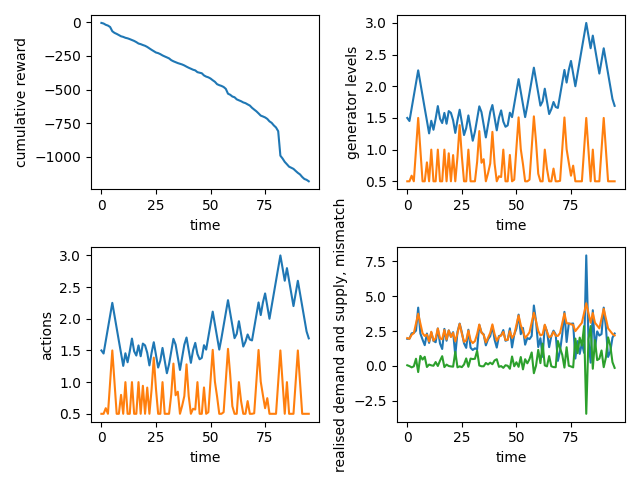
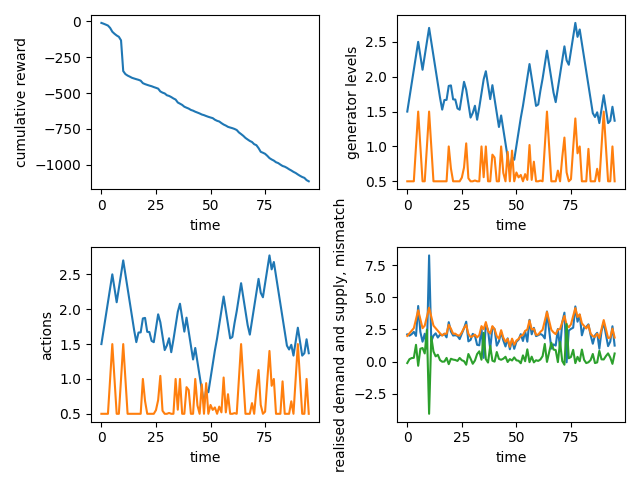
Modified mpc to stop at end of day (v1.0.4)

diff --git a/zeepkist_mpc_submission/zeepkist_mpc.py b/zeepkist_mpc_submission/zeepkist_mpc.py
@@ -6,6 +6,7 @@ def train(env, **kwargs):
     # do nothing; included for compatibility with RL agent
     return MPC_agent(env)
 
+
 class MPC_agent:
 
     def __init__(self, env):
@@ -25,13 +26,6 @@ class MPC_agent:
         self.imb_minus_vars = pulp.LpVariable.dicts(name="imb_minus", indexs=self.indices, lowBound=0)
 
         self.problem = pulp.LpProblem(name="dispatch-problem", sense=pulp.constants.LpMinimize)
-
-        # define objective function
-        # TODO: cut off at end of horizon - it may make a tiny difference
-        self.problem.objective = self.env.param.generator_1_cost * pulp.lpSum([self.gen1_vars[i] for i in self.indices]) \
-            + self.env.param.generator_2_cost * pulp.lpSum([self.gen2_vars[i] for i in self.indices]) \
-            + self.env.param.imbalance_cost_factor_high * pulp.lpSum([self.imb_minus_vars[i] for i in self.indices]) \
-            + self.env.param.imbalance_cost_factor_low * pulp.lpSum([self.imb_plus_vars[i] for i in self.indices])
 
         # add ramp constraints
         for i in range(len(self.indices) - 1):
@@ -56,7 +50,21 @@ class MPC_agent:
 
         return
 
-    def _add_current_constraints(self, current_gen, forecast):
+    def _add_current_constraints(self, current_gen, forecast, steps_in_objective=None):
+
+        # if steps_in_objective is given, use only a subset of terms in the objective function
+        if steps_in_objective is None:
+            objective_indices = self.indices
+        else:
+            assert steps_in_objective <= len(forecast), f"steps_in_objective={steps_in_objective} should be <= {len(forecast)}"
+            objective_indices = [self.indices[i] for i in range(steps_in_objective)]
+
+        # define objective function
+        self.problem.objective = self.env.param.generator_1_cost * pulp.lpSum([self.gen1_vars[i] for i in objective_indices]) \
+            + self.env.param.generator_2_cost * pulp.lpSum([self.gen2_vars[i] for i in objective_indices]) \
+            + self.env.param.imbalance_cost_factor_high * pulp.lpSum([self.imb_minus_vars[i] for i in objective_indices]) \
+            + self.env.param.imbalance_cost_factor_low * pulp.lpSum([self.imb_plus_vars[i] for i in objective_indices])
+
         # in this function we use named constraints, which are a bit more fiddly, but they are replaced when the function is called again
 
         # add ramp rates for current time step
@@ -73,14 +81,15 @@ class MPC_agent:
 
     def predict(self, obs, deterministic=True, **kwargs):
         
+        # get the current time (minus one) and map it to an integer
+        current_time = int(round(obs[0]))   
+        actual_forecast_length = min(self.env.forecast_length, self.env.param.steps_per_episode - current_time - 1)
+
         # set constraints on the basis of current output and forecast
-        self._add_current_constraints(current_gen=(obs[1], obs[2]), forecast=obs[3:])
+        self._add_current_constraints(current_gen=(obs[1], obs[2]), forecast=obs[3:], steps_in_objective=actual_forecast_length)
 
         # solve the MILP and suppress output
         self.problem.solve(pulp.PULP_CBC_CMD(msg=False))
-
-        # debug only: log optimality status
-     #   print(pulp.LpStatus[self.problem.status])
 
         # extract t=0 actions for generators
         a1 = self.gen1_vars[self.indices[0]].varValue

diff --git a/development/zeepkist_mpc.py b/development/zeepkist_mpc.py
@@ -27,13 +27,6 @@ class MPC_agent:
 
         self.problem = pulp.LpProblem(name="dispatch-problem", sense=pulp.constants.LpMinimize)
 
-        # define objective function
-        # TODO: cut off at end of horizon - it may make a tiny difference
-        self.problem.objective = self.env.param.generator_1_cost * pulp.lpSum([self.gen1_vars[i] for i in self.indices]) \
-            + self.env.param.generator_2_cost * pulp.lpSum([self.gen2_vars[i] for i in self.indices]) \
-            + self.env.param.imbalance_cost_factor_high * pulp.lpSum([self.imb_minus_vars[i] for i in self.indices]) \
-            + self.env.param.imbalance_cost_factor_low * pulp.lpSum([self.imb_plus_vars[i] for i in self.indices])
-
         # add ramp constraints
         for i in range(len(self.indices) - 1):
             self.problem += self.gen1_vars[self.indices[i+1]] - self.gen1_vars[self.indices[i]] <= self.env.param.ramp_1_max
@@ -57,7 +50,21 @@ class MPC_agent:
 
         return
 
-    def _add_current_constraints(self, current_gen, forecast):
+    def _add_current_constraints(self, current_gen, forecast, steps_in_objective=None):
+
+        # if steps_in_objective is given, use only a subset of terms in the objective function
+        if steps_in_objective is None:
+            objective_indices = self.indices
+        else:
+            assert steps_in_objective <= len(forecast), f"steps_in_objective={steps_in_objective} should be <= {len(forecast)}"
+            objective_indices = [self.indices[i] for i in range(steps_in_objective)]
+
+        # define objective function
+        self.problem.objective = self.env.param.generator_1_cost * pulp.lpSum([self.gen1_vars[i] for i in objective_indices]) \
+            + self.env.param.generator_2_cost * pulp.lpSum([self.gen2_vars[i] for i in objective_indices]) \
+            + self.env.param.imbalance_cost_factor_high * pulp.lpSum([self.imb_minus_vars[i] for i in objective_indices]) \
+            + self.env.param.imbalance_cost_factor_low * pulp.lpSum([self.imb_plus_vars[i] for i in objective_indices])
+
         # in this function we use named constraints, which are a bit more fiddly, but they are replaced when the function is called again
 
         # add ramp rates for current time step
@@ -74,14 +81,15 @@ class MPC_agent:
 
     def predict(self, obs, deterministic=True, **kwargs):
         
+        # get the current time (minus one) and map it to an integer
+        current_time = int(round(obs[0]))   
+        actual_forecast_length = min(self.env.forecast_length, self.env.param.steps_per_episode - current_time - 1)
+
         # set constraints on the basis of current output and forecast
-        self._add_current_constraints(current_gen=(obs[1], obs[2]), forecast=obs[3:])
+        self._add_current_constraints(current_gen=(obs[1], obs[2]), forecast=obs[3:], steps_in_objective=actual_forecast_length)
 
         # solve the MILP and suppress output
         self.problem.solve(pulp.PULP_CBC_CMD(msg=False))
-
-        # debug only: log optimality status
-     #   print(pulp.LpStatus[self.problem.status])
 
         # extract t=0 actions for generators
         a1 = self.gen1_vars[self.indices[0]].varValue

diff --git a/zeepkist_mpc_submission/test_container.py b/zeepkist_mpc_submission/test_container.py
@@ -24,7 +24,7 @@ seeds = read_seeds()
 scores = []
 for seed in seeds:
     submission = client.containers.run(
-        image="zeepkist_mpc:v1.0.3",
+        image="zeepkist_mpc:v1.0.4",
         name="agent",
         network="local_rangl",
         detach=False,
